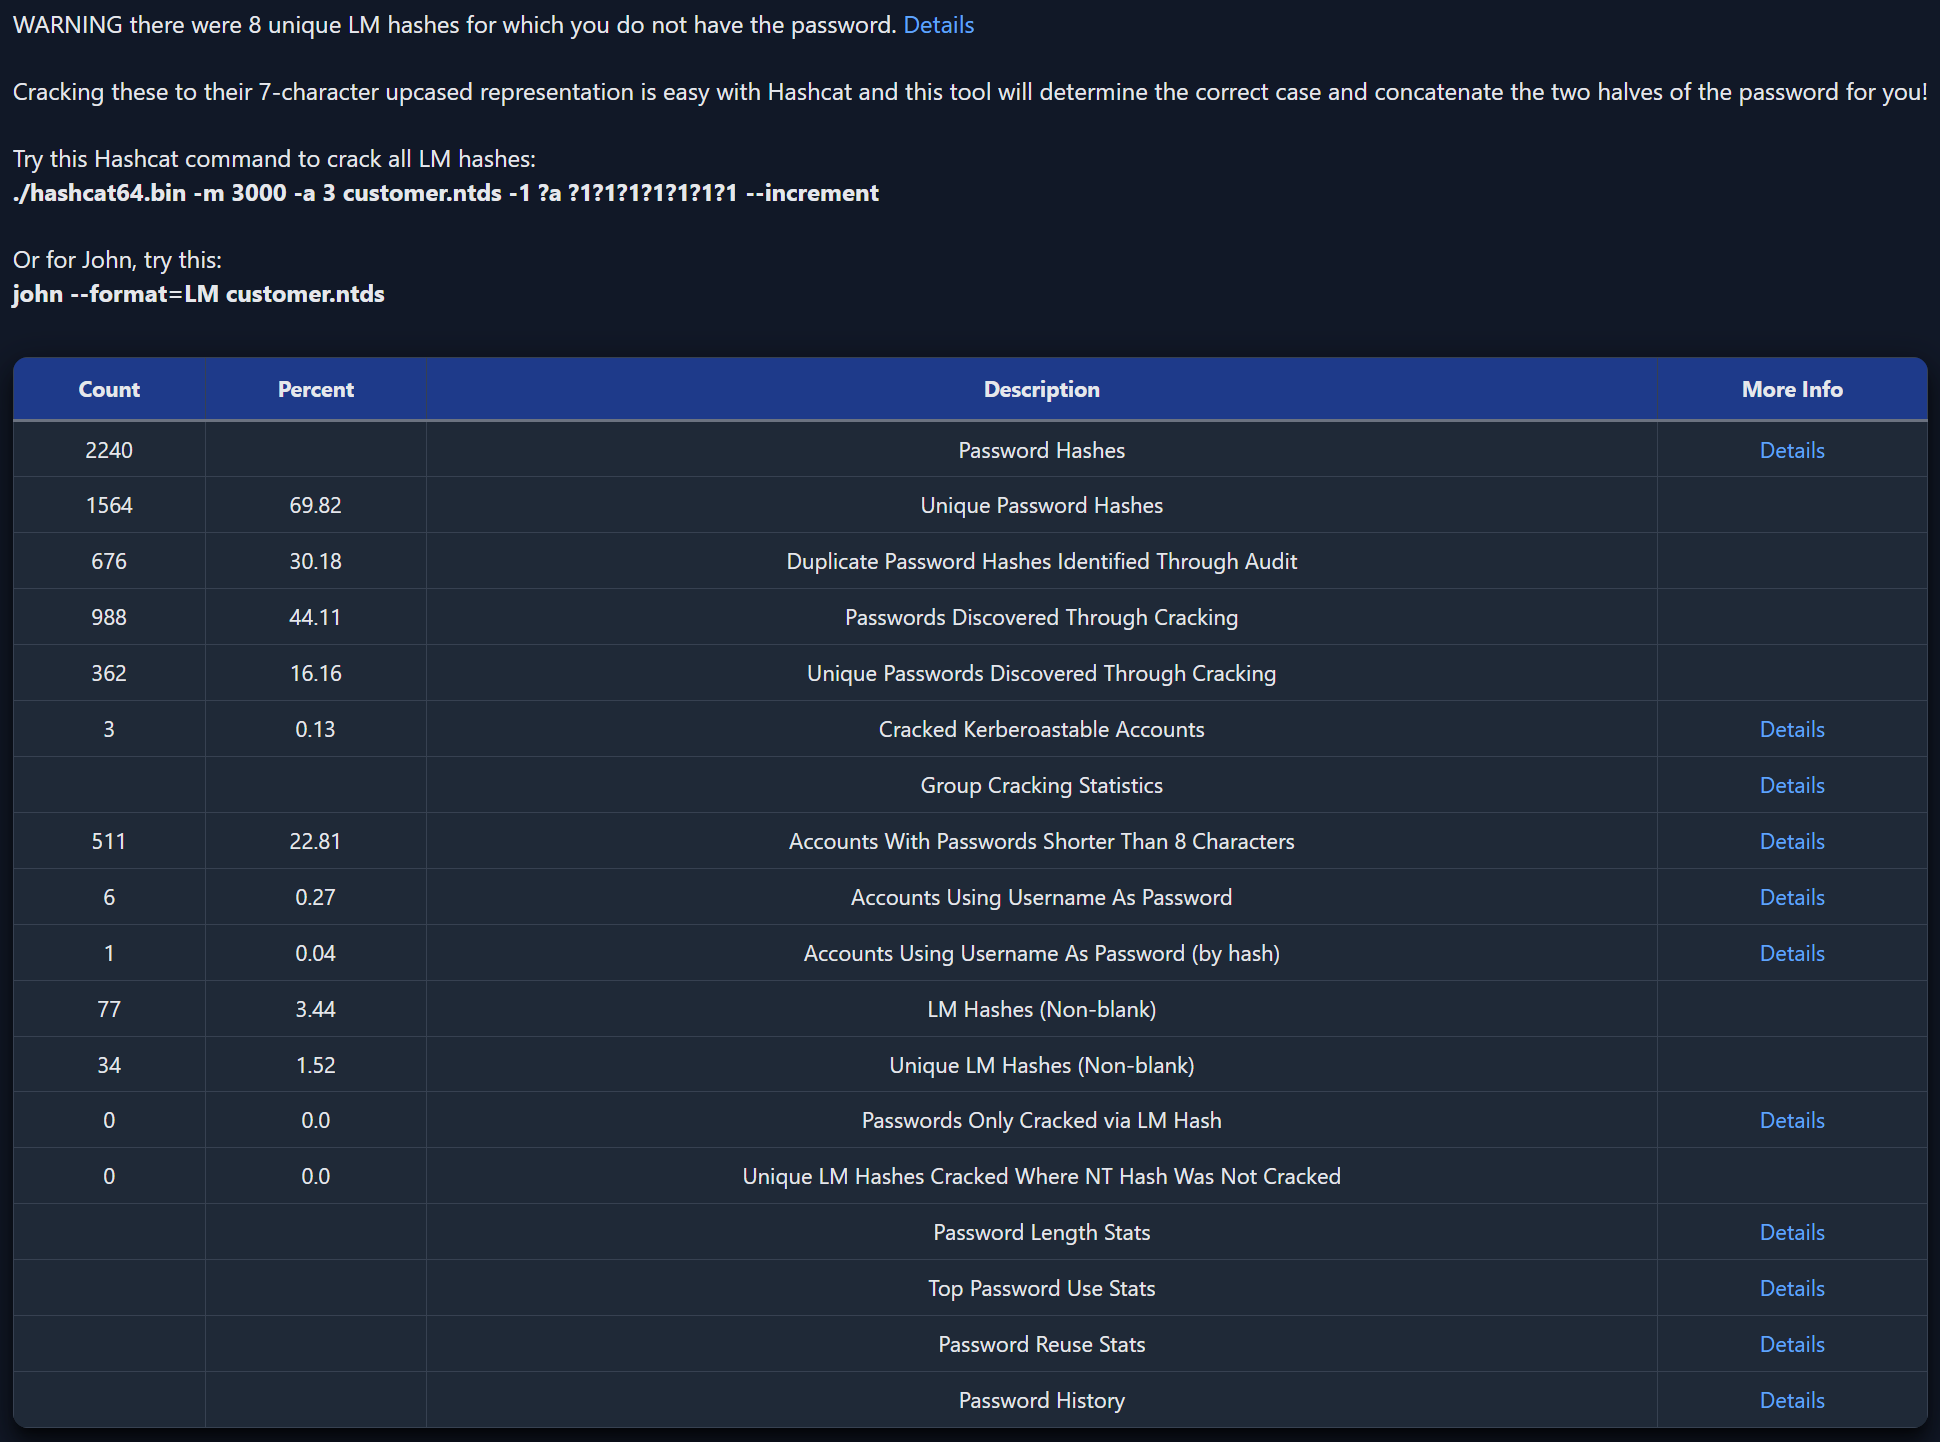
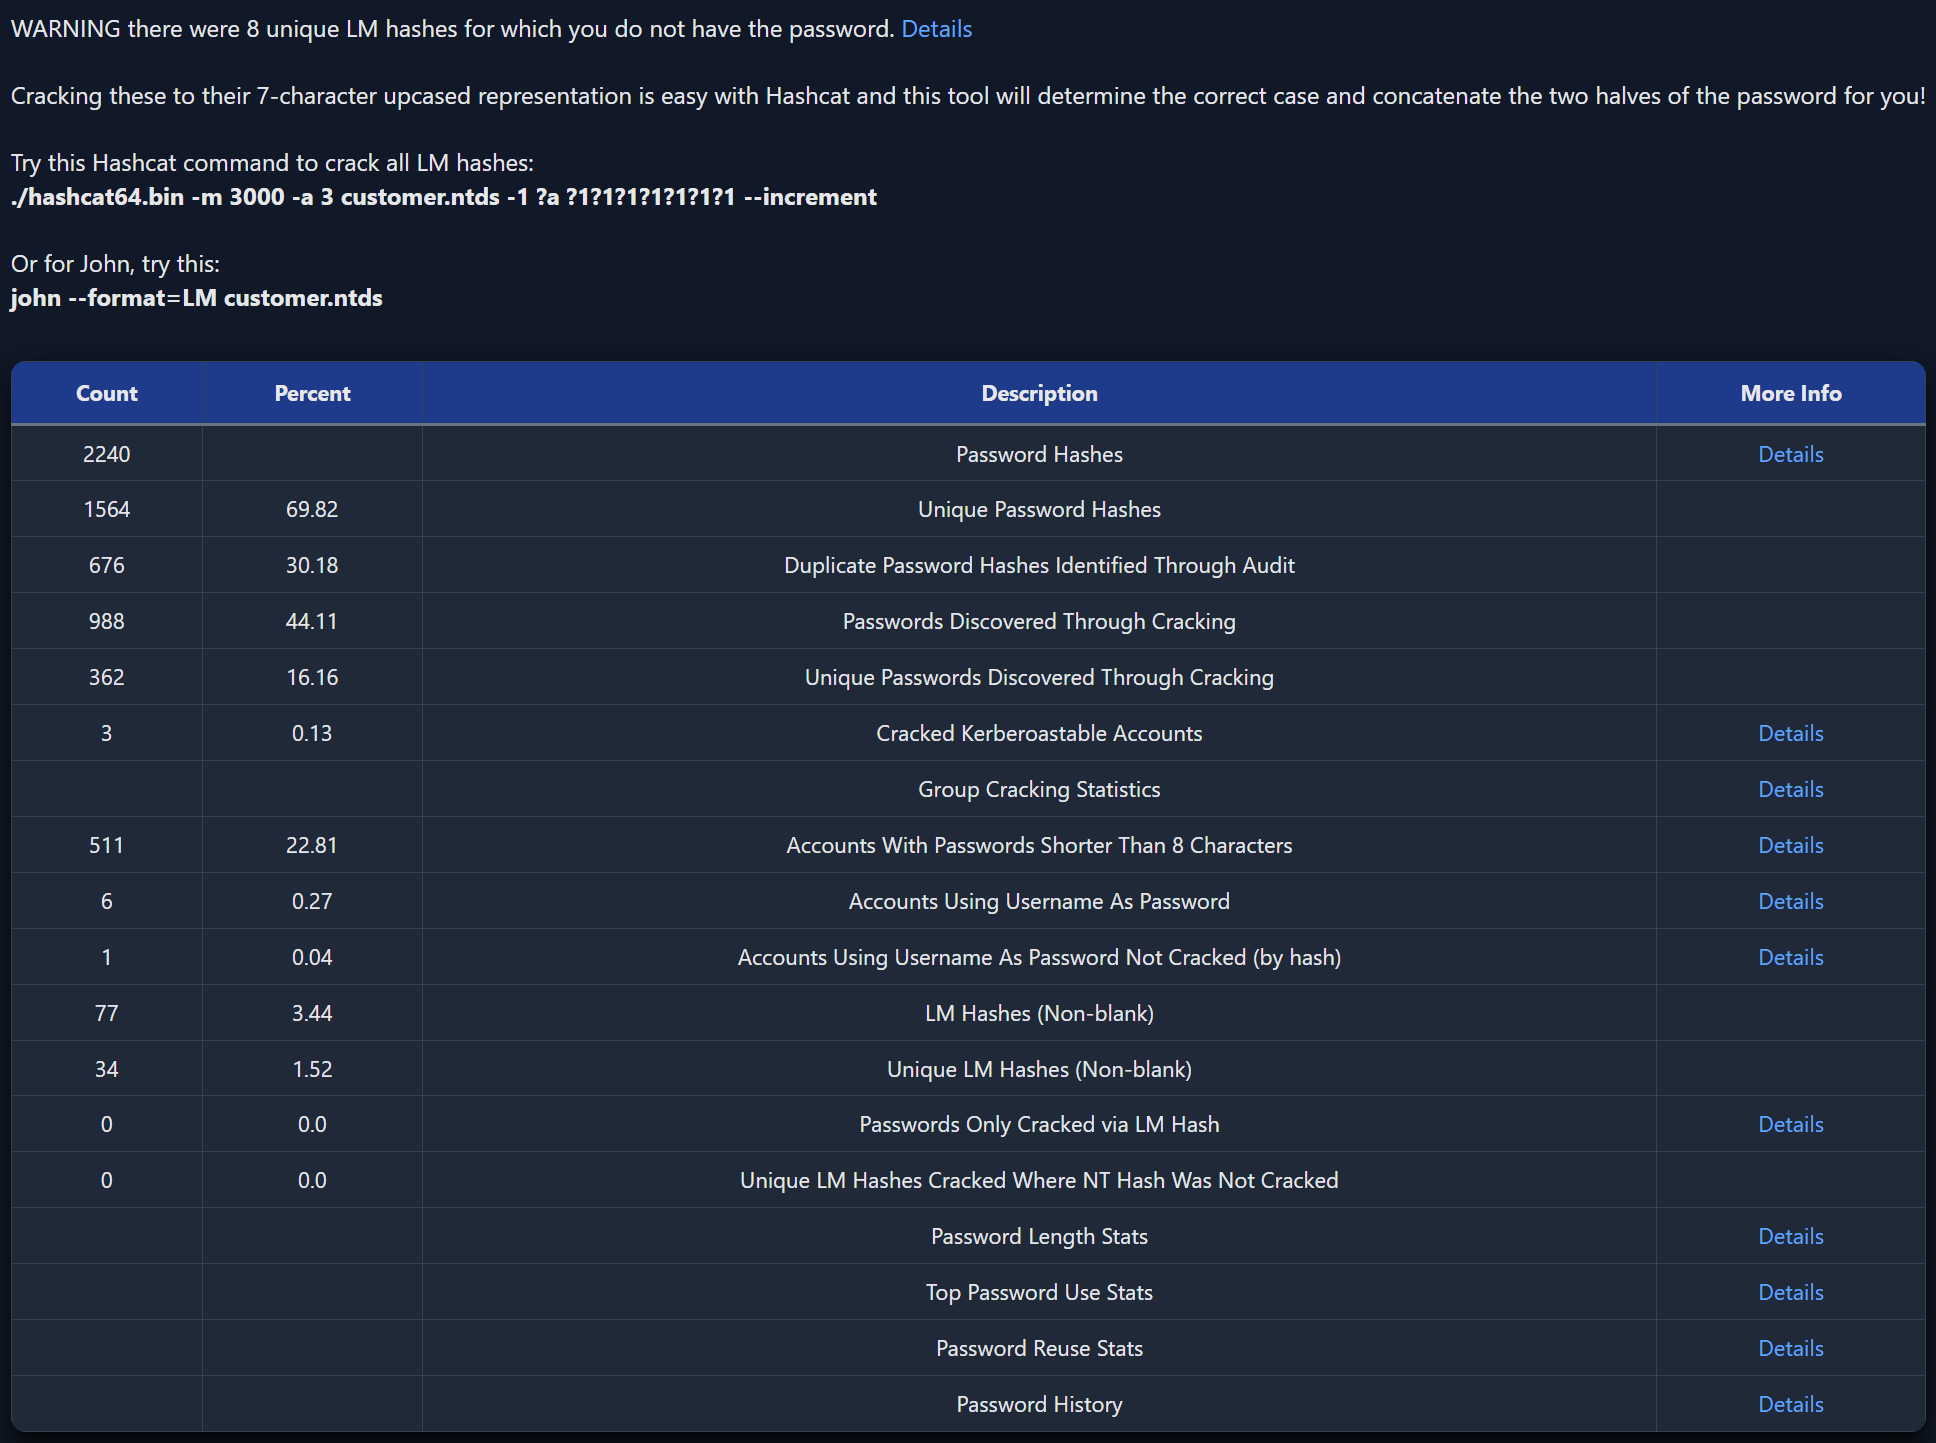
update table row message
Make it more accurate

diff --git a/dpat.py b/dpat.py
@@ -752,7 +752,7 @@ try:
         summary_table.append((
             len(offenders_hashed),
             pct(len(offenders_hashed), num_hashes),
-            "Accounts Using Username As Password (by hash)",
+            "Accounts Using Username As Password Not Cracked (by hash)",
             f'<a href="{filename2}">Details</a>'
         ))
     else:
